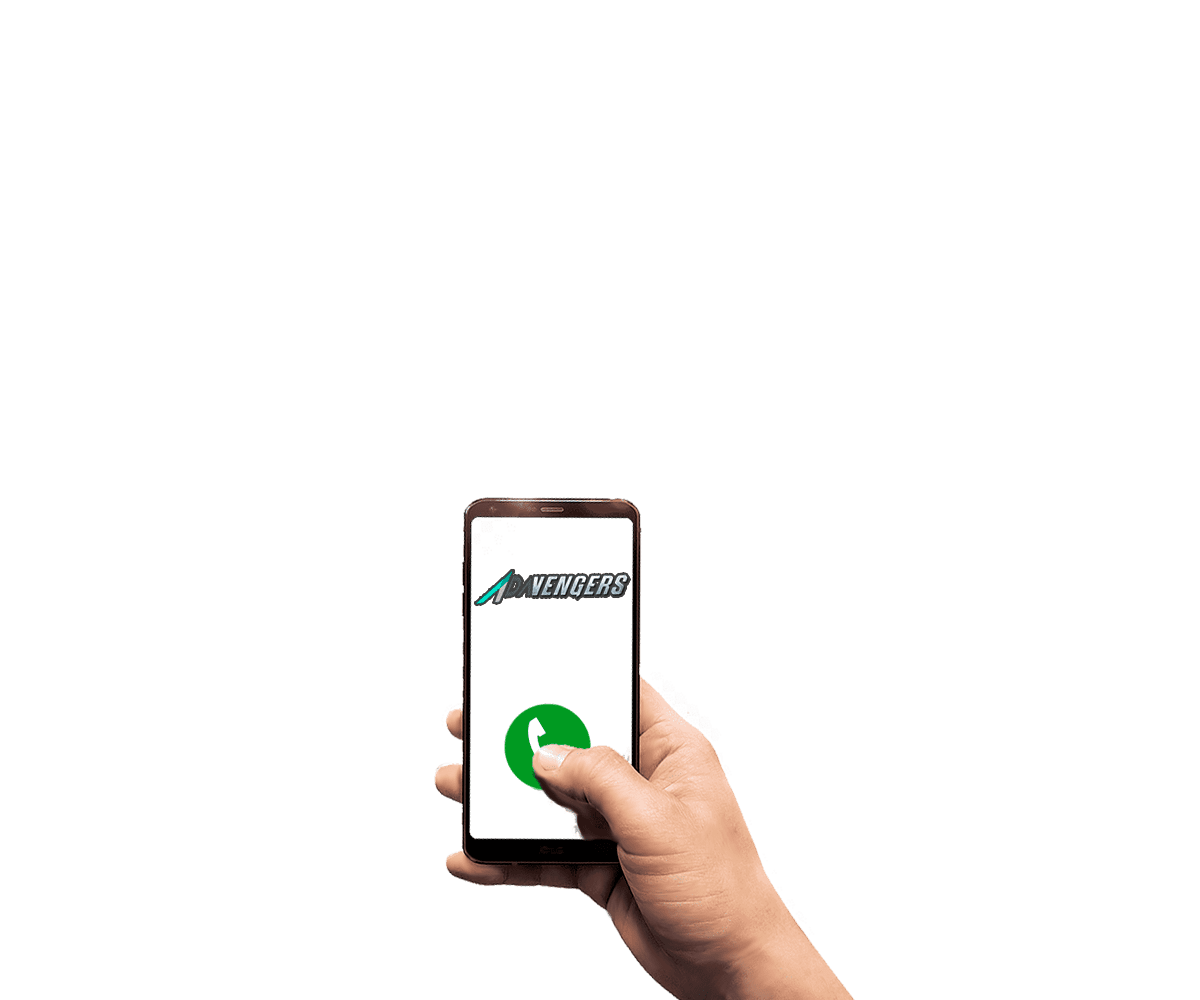
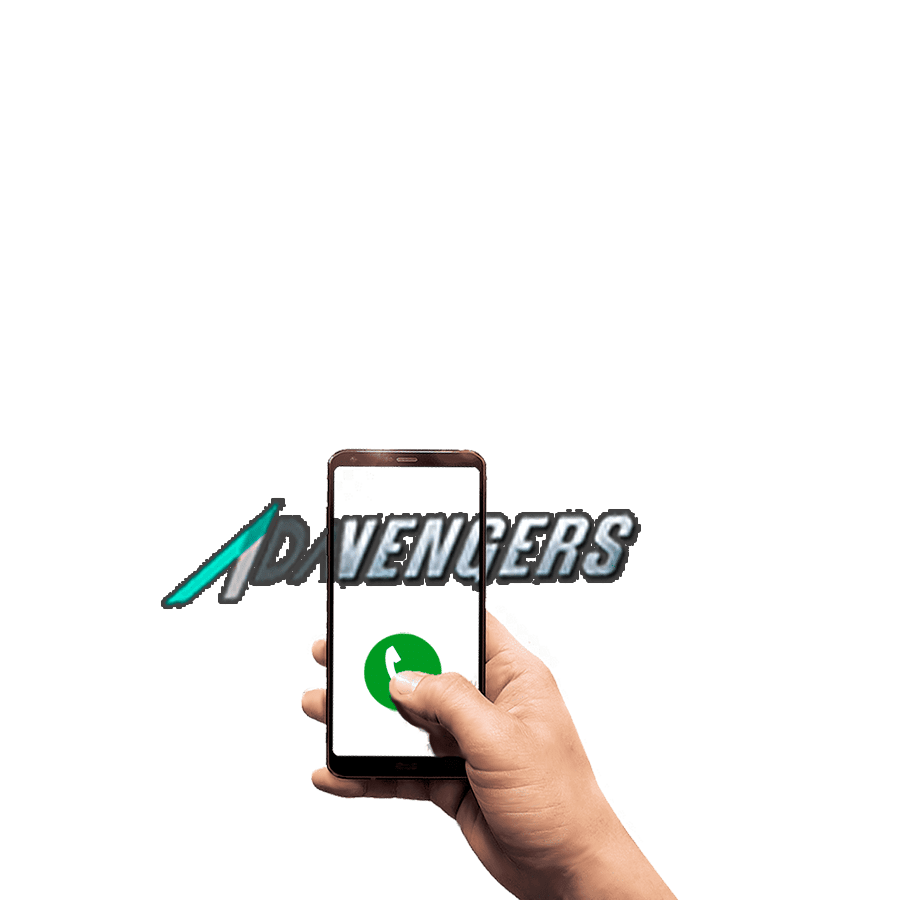
preparing page

Changed region(s): [[0.1556, 0.4978, 0.7778, 1.0]]

diff --git a/docs/contacto.html b/docs/contacto.html
@@ -3,7 +3,7 @@
   <head>
     <meta charset="UTF-8" />
     <meta http-equiv="X-UA-Compatible" content="IE=edge" />
-    <link rel="stylesheet" href="./css/reset.css" />
+
     <meta name="viewport" content="width=device-width, initial-scale=1.0" />
     <link
       href="https://fonts.googleapis.com/css2?family=Rubik:wght@500&display=swap"
@@ -13,37 +13,38 @@
       href="https://fonts.googleapis.com/css2?family=Open+Sans:wght@400;600&display=swap"
       rel="stylesheet"
     />
-    <link rel="stylesheet" href="./css/reset.css" />
-    <link rel="stylesheet" href="./css/contacto-style.css" />
-    <link rel="stylesheet" href="./css/style-tablet-contacto.css" />
+    <link rel="stylesheet" href="./assets/css/contacto.css" />
     <title>Contacto</title>
   </head>
 
   <body>
-    <header class="head">
-      <div class="nombre-header">
-        <h1 class="titulo">Adavengers</h1>
-      </div>
-      <nav class="menu1">
-        <ul>
-          <li><a href="./index.html#equipo">Equipo</a></li>
-          <li>
-            <a href="./index.html#quienes">Quienes somos</a>
-          </li>
-          <li id="contacto">
-            <a href="./contacto.html" target="_blank">Contacto</a>
-          </li>
-        </ul>
-      </nav>
+    <header class="cabeza">
+      <section class="fixed">
+        <div class="nombre-header">
+          <h1>Adavengers</h1>
+        </div>
+        <nav class="menu1">
+          <ul>
+            <li><a href="./index.html#equipo">Equipo</a></li>
+            <li>
+              <a href="./index.html#quienes">Quienes somos</a>
+            </li>
+            <li id="contacto">
+              <a href="./contacto.html" target="_blank">Contacto</a>
+            </li>
+          </ul>
+        </nav>
+      </section>
       <div class="adaimg">
-        <img src="./Images/Fondo2.png" alt="adavengers" class="img2" />
+        <img src="./assets/images/Fondo2.png" alt="adavengers" class="img2" />
       </div>
     </header>
+
     <main class="main">
       <h1 class="main-title">Contacto</h1>
       <p class="main-paragraph">
-        Lorem ipsum dolor sit amet consectetur, adipisicing elit. Nuncrutrum
-        ullamcorper mauris,vel convallis metus eleifend in.
+        Si estás interesada en conocer nuestros poderes maquetadores... ¡No
+        dudes en contactarnos!
       </p>
 
       <p class="observation">
@@ -51,29 +52,75 @@
         obligatorios.
       </p>
 
-      <!--Formulario: Nombre completo* Email* Teléfono Mensaje    -->
-      <p>
-        FORMULARIO Lorem, ipsum dolor sit amet consectetur adipisicing elit.
-        Mollitia aut deserunt quas ipsam? Omnis a possimus eligendi quod
-        nesciunt perspiciatis, exercitationem, saepe explicabo assumenda eos
-        ipsa illum aliquid quo quasi.Lorem, ipsum dolor sit amet consectetur
-        adipisicing elit. Mollitia aut deserunt quas ipsam? Omnis a possimus
-        eligendi quod nesciunt perspiciatis, exercitationem, saepe explicabo
-        assumenda eos ipsa illum aliquid quo quasi.Lorem, ipsum dolor sit amet
-        consectetur adipisicing elit. Mollitia aut deserunt quas ipsam? Omnis a
-        possimus eligendi quod nesciunt perspiciatis, exercitationem, saepe
-        explicabo assumenda eos ipsa illum aliquid quo quasi.
-      </p>
+      <form
+        class="form"
+        method="post"
+        action="https://adalab-server-form.herokuapp.com"
+        method="post"
+      >
+        <div class="div">
+          <label class="label" for="Name"
+            >Nombre completo <span class="color-aqua">*</span></label
+          >
+          <input
+            class="caja"
+            placeholder="Nombre..."
+            id="Name"
+            type="text"
+            name="Name"
+            required
+          />
+        </div>
+        <div class="mailTel">
+          <div class="div mail">
+            <label class="label" for="emailAddress"
+              >Email <span class="color-aqua">*</span></label
+            >
+            <input
+              class="caja"
+              placeholder="nombre.apellidos@mail.com"
+              id="emailAddress"
+              type="email"
+              name="emailAddress"
+              required
+            />
+          </div>
+          <div class="div tel">
+            <label class="label" for="telephone">Teléfono</label>
+            <input
+              class="caja"
+              placeholder="Ej: 12345678"
+              id="telephone"
+              type="tel"
+              name="telephone"
+            />
+          </div>
+        </div>
+        <div class="div">
+          <label class="label" for="comments"
+            >Mensaje <span class="color-aqua">*</span></label
+          >
 
-      <button class="button-send">Enviar</button>
+          <textarea
+            class="caja"
+            placeholder="¿Qué necesitas?"
+            id="comments"
+            name="comments"
+            rows="4"
+            cols="80"
+            required
+          ></textarea>
+        </div>
+        <input class="boton" type="submit" value="Enviar" />
+      </form>
     </main>
 
     <footer class="footer">
       <section class="section-copyright">
-        <p class="copyright">Nombre del grupo © 2018</p>
+        <small class="copyright">Adavengers © 2022</small>
       </section>
-      <section>
-        <nav>
+      <section class="menu-footer">
+        <nav class="nav-footer">
           <ul class="items-footer">
             <li><a href="./index.html#equipo"></a> EQUIPO</li>
             <li class="quienes-footer">
@@ -83,11 +130,14 @@
           </ul>
         </nav>
       </section>
-      <img
-        class="img-footer"
-        src="./Images/logo-adalab.svg"
-        alt="logo-adalab"
-      />
+      <div class="contenedor-logo">
+        <img
+          class="img-footer"
+          src="./assets/images/logo-adalab.svg"
+          alt="logo-adalab"
+        />
+      </div>
     </footer>
+
   </body>
 </html>

diff --git a/docs/assets/css/contacto.css b/docs/assets/css/contacto.css
@@ -1,0 +1,1 @@
+html,body,div,span,applet,object,iframe,h1,h2,h3,h4,h5,h6,p,blockquote,pre,a,abbr,acronym,address,big,cite,code,del,dfn,em,img,ins,kbd,q,s,samp,small,strike,strong,sub,sup,tt,var,b,u,i,center,dl,dt,dd,ol,ul,li,fieldset,form,label,legend,table,caption,tbody,tfoot,thead,tr,th,td,article,aside,canvas,details,embed,figure,figcaption,footer,header,hgroup,menu,nav,output,ruby,section,summary,time,mark,audio,video{margin:0;padding:0;border:0;font-size:100%;font:inherit;vertical-align:baseline}article,aside,details,figcaption,figure,footer,header,hgroup,menu,nav,section{display:block}body{line-height:1}ol,ul{list-style:none}blockquote,q{quotes:none}blockquote:before,blockquote:after,q:before,q:after{content:'';content:none}table{border-collapse:collapse;border-spacing:0}.cabeza{width:100%;height:421px;text-transform:uppercase}@media all and (min-width: 768px){.cabeza{margin:0;padding:0}}.fixed{position:fixed;z-index:100;width:100%}@media all and (min-width: 768px){.fixed{display:flex;flex-direction:row}}.menu1 ul{display:flex;flex-direction:row;list-style:none;opacity:0.90;background-color:#14d9c4;height:45px;justify-items:center;align-items:center;box-sizing:border-box;padding:20px;justify-content:space-between;color:white;font-size:15px;font-family:"Rubik",sans-serif}@media all and (min-width: 768px){.menu1 ul{width:80vw;height:60px;opacity:0.95;display:flex;text-align:right;justify-content:flex-end;gap:30px;background-color:#099d8d}}@media all and (min-width: 1200px){.menu1 ul{padding-right:80px}}.nombre-header{background-color:#099d8d;width:100%;height:60px;text-align:center;align-items:center;padding-top:20px;font-size:16px;color:white;opacity:0.95;box-sizing:border-box;font-family:"Rubik",sans-serif}@media all and (min-width: 768px){.nombre-header{margin:0;width:30%;opacity:0.95;padding-left:20px;padding-top:22px;flex-grow:1}}.adaimg{width:100%;height:421px;position:absolute;top:0;z-index:-999;display:flex;justify-content:center}.img2{width:100%;height:100%}@media all and (min-width: 768px){.img2{transform:scale(0.8)}}@media all and (min-width: 1200px){.img2{transform:scale(1);width:700px}}a{text-decoration:none;color:white}a:hover{color:grey}.main{text-align:center;font-family:"Open Sans",sans-serif;padding:30px}.main-title{color:#099d8d;font-size:24px;text-transform:uppercase;margin-bottom:30px;font-family:"Rubik",sans-serif}.main-paragraph{font-size:16px;text-align:center;margin:0 auto 30px auto;max-width:90%;line-height:24px}@media all and (min-width: 768px){.main-paragraph{margin-left:163px;margin-right:163px}}@media all and (min-width: 1200px){.main-paragraph{margin-left:25%;margin-right:25%}}.observation{font-size:12px;margin-bottom:30px}.color-aqua{color:#14d9c4}.form{width:100%}@media all and (min-width: 1200px){.form{margin-left:25%;margin-right:25%;width:600px}}.div{display:flex;flex-direction:column;justify-content:start}@media all and (min-width: 768px){.div{margin-left:163px;margin-right:163px}}@media all and (min-width: 1200px){.div{margin-left:0px;margin-right:0px}}@media all and (min-width: 1200px){.mailTel{display:flex;flex-direction:row;justify-content:space-between;box-sizing:content-box;width:602px;gap:45px}}@media all and (min-width: 1200px){.mail{width:400px}}.label{text-align:left;font-size:14px;font-family:"Open Sans",sans-serif;margin-top:13px;margin-bottom:7px}.caja{padding:12px;font-family:"Open Sans",sans-serif}.boton{width:100%;height:45px;margin-top:20px;margin-bottom:30px;background-color:#099d8d;border-style:none;color:white;text-transform:uppercase;border-radius:4px;font-family:"Open Sans",sans-serif}@media all and (min-width: 768px){.boton{width:206px;margin-left:345px;margin-right:163px}}@media all and (min-width: 1200px){.boton{width:278px;margin-left:325px;margin-right:300px}}.footer{text-align:center;background-color:white;border-top:1px solid #b8b8b9;width:100%;padding-top:20px;padding-bottom:45px;font-family:"Open Sans",sans-serif}@media all and (min-width: 768px){.footer{text-align:left;padding-top:30px;padding-bottom:55px;height:190px}}.copyright{color:#b8b8b9;padding-top:20px}@media all and (min-width: 768px){.copyright{text-align:left;padding-left:45px}}.items-footer{display:inline-block;list-style:none;padding-top:20px;padding-bottom:30px;font-weight:600}@media all and (min-width: 768px){.items-footer{position:relative;display:flex;flex-direction:column;left:-45px;top:-30px;text-align:right}}@media all and (min-width: 768px){.quienes-footer{padding-top:10px;padding-bottom:10px}}.items-footer>li{font-size:14px;color:#54585a;line-height:20px}@media all and (min-width: 768px){.contenedor-logo{display:flex;position:relative;justify-content:left;padding-left:45px;bottom:100px}}.img-footer{width:100px;height:auto;padding-bottom:20px}@media all and (min-width: 768px){.img-footer{margin-bottom:50px;left:45px}}

diff --git a/docs/index.html b/docs/index.html
@@ -43,7 +43,7 @@
         </nav>
       </section>
       <div class="adaimg">
-        <img src="./assets/images/Fondo1 copia.png" alt="adavengers" class="img2" />
+        <img src="./assets/images/Fondo1.png" alt="adavengers" class="img2" />
       </div>
     </header>
 
@@ -59,14 +59,7 @@
             problemas más adversos.</p>
 
           <p class="parrafo-equipo">
-            Sobre el equipo. Lorem ipsum dolor sit, amet consectetur adipisicing
-            elit. Consequatur labore perferendis quam. Commodi est earum
-            laboriosam fuga eligendi facere quaerat hic, quas voluptates magnam.
-            Id, magnam. Laboriosam autem labore similique.
-            ipsum dolor sit amet consectetur adipisicing elit. Perspiciatis, reiciendis officiis saepe ipsum sed
-            impedit enim quibusdam ipsa suscipit veritatis consequuntur officia laborum blanditiis porro recusandae
-            nostrum
-            optio praesentium dicta!
+            De la misma manera que cada vengador se sirve de sus poderes, las Adavengers usan sus armas para hacerse hueco en la programación sin importar la dificultad de los módulos.
           </p>
           <div class="cuadrado"></div>
         </section>
@@ -78,7 +71,7 @@
             <p class="parrafo-fortalezas">
               En equipo el resultado es mejor. Nuestras fortalezas son nuestras diferencias aportando cada una un
               superpoderes que nos hace más completas que individualmente.
-              Juntas armamos un super equipo: La Adavangers!
+              Juntas armamos un super equipo: ¡Las Adavangers!
             </p>
           </article>
           <article class="debilidades">
